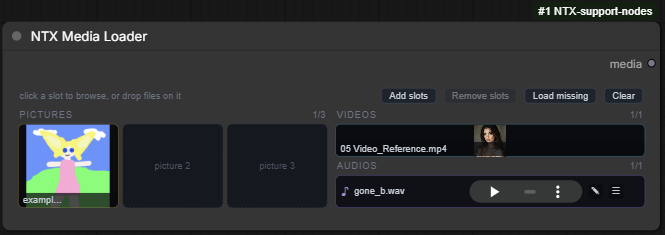
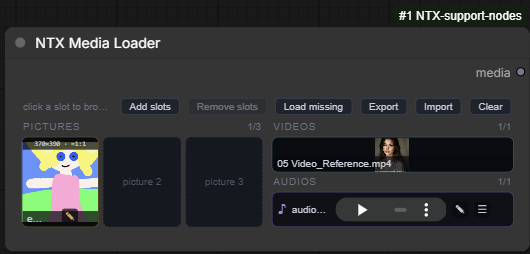
Documented the Media Loader's export / import and the Media Splitter

diff --git a/README.md b/README.md
@@ -2084,6 +2084,11 @@ order**:
   rotation;
 - **audios**: `start` / `end` only.
 
+Picture and video records also carry the settings of the editor's crop tool, `crop_aspect`
+(`free` or one of the ratios below) and `crop_multiple` (`1` to `100`): they are the user's
+preferences for the slot rather than edits — they do not change the media, and a record holding
+only them does not count as edited.
+
 ### Inputs
 
 | Input | Type | Description |
@@ -2112,6 +2117,23 @@ The raw `media_state` widget is replaced by the slot panel. Its top bar holds:
   *uploaded from the folder* (with their source path, and the name they were stored under when
   it differs) and the ones *still missing* with the reason. When nothing is missing the report
   is shown directly, without asking for a folder. Disabled while nothing is loaded.
+- **Export** — copies every loaded file into a **new folder of `output/ntx_media/`** named after
+  the current time (`yymmddHHMMSS`, e.g. `260919113805`; a `_1`, `_2`… suffix when that second
+  is already taken), along with a **`media.json`** describing the slots: the same `pictures` /
+  `videos` / `audios` lists as the `media` output, each entry with its `slot`, `name` and full
+  `edit` record but **without** the `file`, `type` and `path` fields, plus the node's `rows`.
+  Each copy takes its slot's name, made unique inside the folder when two slots share one (the
+  JSON then names the copy). Slots whose file is missing on the server are skipped and listed in
+  the result toast. Disabled while nothing is loaded.
+- **Import** — the reverse: opens a **folder picker** and loads an exported folder into the
+  node. The folder must hold exactly one `media.json` (found even when a parent folder is
+  picked; a folder holding several exports is refused), which is validated before anything
+  changes. When the node holds files, a confirmation asks to replace them. The node is then
+  resized to the JSON's `rows` (more if an entry's slot needs it), emptied, and every named file
+  of the folder is **uploaded like a dropped file** — so the slots reference the copies in
+  `input/ntx_media/`, not the picked folder — with its `edit` record restored. Files that are not
+  in the folder, empty, of the wrong kind, or failing to upload are skipped and listed in the
+  result toast.
 - **Clear** — empties every slot, after confirmation.
 
 **Loading files**
@@ -2132,6 +2154,9 @@ The raw `media_state` widget is replaced by the slot panel. Its top bar holds:
 - Pictures show a thumbnail (of the *edited* picture when edits are recorded), videos their
   first frame — they play, muted, while hovered, mirrored and from the start of their span
   when edited — and audios a compact player, started at the span's start when trimmed.
+- Picture slots show, along their top edge, the **size of the edited picture** and its **aspect
+  ratio** among the ones of the crop tool: the exact one when there is one (`1024×576 · 16:9`),
+  the closest one marked `≈` when it is within 10 % (`1000×600 · ≈16:9`), nothing beyond that.
 - **×** (top-right, on hover) empties the slot.
 - **☰** grip (bottom-right; at the end of an audio row) — **hold and drag** to move the file to
   another slot **of the same kind**; dropping on a filled slot **swaps** the two. A ghost
@@ -2199,3 +2224,73 @@ The raw `media_state` widget is replaced by the slot panel. Its top bar holds:
   **keep** row (**first** / **last 1s, 2s, 3s**, **all**) as the video editor; **Space** plays
   or pauses, playback loops inside the span, minimum span 0.1 s.
 - **Reset**, **Accept**, **Cancel** as above.
+
+---
+
+## MediaSplitter
+
+![MediaSplitter node](images/MediaSplitter.png)
+
+Splits the **NTX_MEDIA_REFS** bundle of a **MediaLoader** into one output per slot, with every
+media **decoded and its recorded edits applied**: pictures are rotated, mirrored, cropped and
+scaled down to their maximum size; videos are trimmed to their kept span, then mirrored,
+cropped and scaled; audios (the audio track of a video, or an audio slot) are trimmed to their
+span. The outputs of the **empty slots are `None`**, so a downstream switch can react to a slot
+left free.
+
+The node shows the outputs of a number of **rows** of slots — the same rows as the loader — and
+this number is changed on the node (see *Frontend*). For *R* rows the outputs are, **grouped by
+kind and in this order**: `picture_1` … `picture_3R` (IMAGE), `video_1` … `video_R` (IMAGE, the
+frames of the kept span as a batch), `video_audio_1` … `video_audio_R` (AUDIO, the audio track
+of the same span, `None` for a video without one) and `audio_1` … `audio_R` (AUDIO). A new node
+starts with **3 rows** (18 outputs); the maximum is **10 rows** (60 outputs). Slots of the
+bundle beyond the node's rows are ignored.
+
+Decoding details: pictures are read with their EXIF orientation applied and converted to RGB
+(an animated file yields its first frame); video frames are decoded from a little before the
+span's start and kept while their timestamp is inside it; the maximum size is applied with a
+Lanczos downscale; audio is decoded at the file's own sample rate, mono or stereo (more channels
+are mixed down to stereo).
+
+The decoded media are kept in a **cache shared by every Media Splitter** of the session, keyed
+by the file (relative to its ComfyUI folder — the files of `input/ntx_media/` are assumed not to
+change during a session) and by the edits applied to it (the crop tool preferences do not
+count): several splitters fed by the same loader, or the same splitter run again, decode each
+file once, and the log marks the outputs served from it with `(cached)`. The cache is bounded by
+a byte budget — least recently used items are dropped first, and an item larger than the whole
+budget is delivered but not kept, with a warning. Both are set in the `cache` section of
+`input/ntx_data/config.yaml`: `use_for_media_loader` (`true` by default) switches the cache
+off altogether when `false`, and `max_gb_for_media_loader` (`4` by default) is the budget in
+gigabytes. Each run logs the cache's item count and size.
+
+### Inputs
+
+| Input | Type | Description |
+|---|---|---|
+| `media` | NTX_MEDIA_REFS | The bundle of a MediaLoader node. |
+| `rows` | INT (hidden) | Rows of slots the outputs cover (`1` to `10`, default `3`); managed by the frontend through the **Add slots** / **Remove slots** buttons, not edited by hand. |
+
+### Outputs
+
+| Output | Type | Description |
+|---|---|---|
+| `picture_1` … `picture_3R` | IMAGE | The edited picture of the slot as a batch of one; `None` when the slot is empty. |
+| `video_1` … `video_R` | IMAGE | The frames of the video's kept span, edited, as a batch; `None` when the slot is empty. |
+| `video_audio_1` … `video_audio_R` | AUDIO | The audio track of the same span; `None` when the slot is empty or the video has no audio. |
+| `audio_1` … `audio_R` | AUDIO | The audio of the slot, trimmed to its span; `None` when the slot is empty. |
+
+### Frontend
+
+The node declares the outputs of the maximum number of rows, untyped; the frontend shows only
+the ones of the current rows, named and typed as above, in the grouped order.
+
+- **Add slots** — adds a row of outputs: 3 pictures, 1 video, 1 video audio, 1 audio (disabled at
+  10 rows).
+- **Remove slots** — removes the last row (disabled at one row). When outputs of that row are
+  connected, a confirmation names them; their wires are dropped when confirmed. The outputs
+  that stay keep their wires while moving to their new position.
+
+Right-click menu options on the node:
+
+- **Clean media cache** — empties the shared cache of decoded media and frees its memory; a
+  toast reports how many items and megabytes were released.
